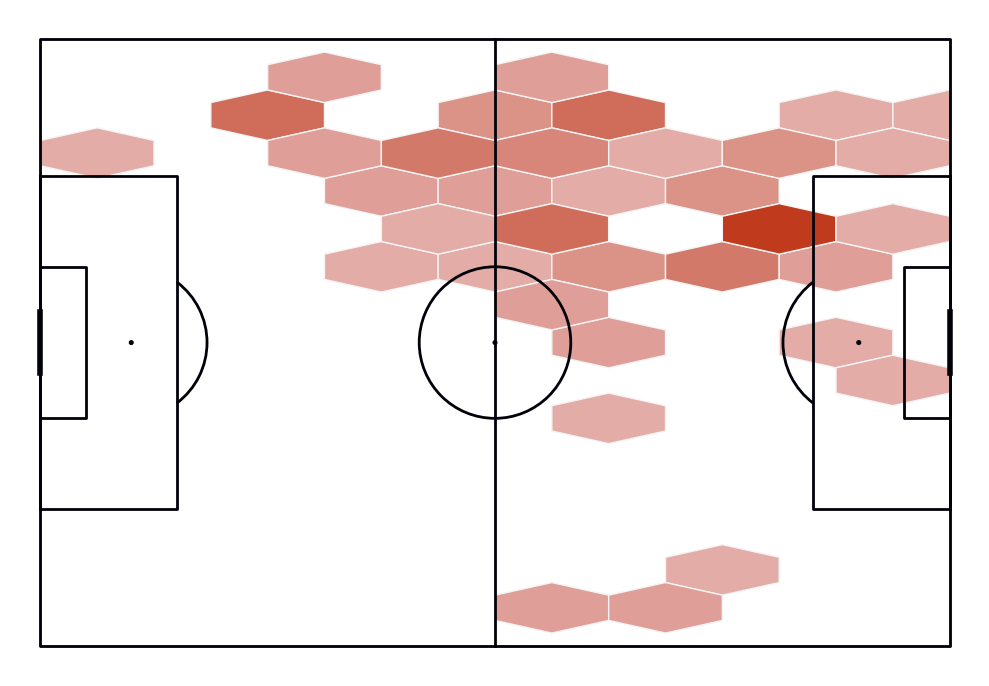
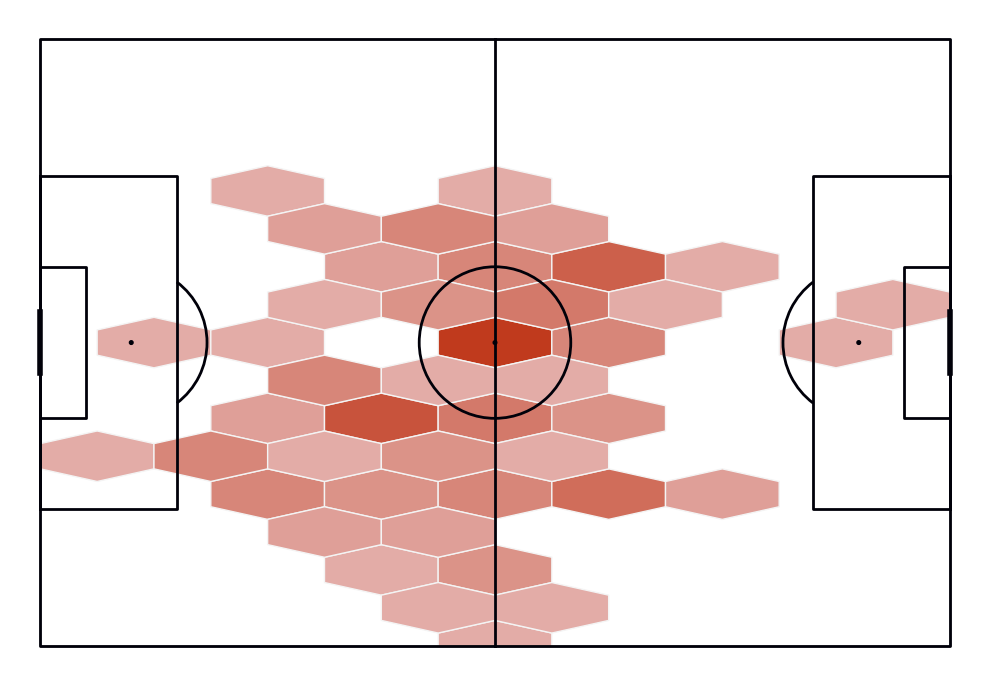
almost done

diff --git a/public/html/awayteam.html b/public/html/awayteam.html
@@ -12,43 +12,64 @@
   <div class="bg bg2"></div>
   <div class="bg bg3"></div>
     
-  
-      <div class=”container”>
-        <div class="print">
-          <img style="margin-left: 0px; max-width: 10%;" src="../images/SoccerTact_logo.png">
-          <button>Print</button>
-        </div>
-        <br><br>   
+  <div class=”container”>
+    <div class="print">
+      <img style="margin-left: 0px; max-width: 10%;" src="../images/SoccerTact_logo.png">
+      <button>Print</button>
+    </div>
+    <br><br>   
+            
+            
+        <div>
+          <div style="display: flex; justify-content: space-between;" class="player_select">
             <div>
-              <div style="display: flex; justify-content: space-between;" class="player_select">
-                <div>
-                    <div class="logo_name">
-                      <h4 style="color: white; margin: 0%; margin-bottom: 5px;">Away Team</h4> 
-                      <img id="logoaway" style="height: 80px; width: 80px; border: 5px solid gold">
-                      </div> 
-                      <br>
-                  <select style="background-color:rgba(0, 0, 0, 0.5); width: 330px; text-align-last:center; height: 410px;"class="away_team_select" id="away_team_select">
-                    <option  style="background-color: gold; color: white; "id="away_players" selected disabled>Away Team</option>
-                  </select>
-                  </div>             
-                  <div class="analysis_buttons">
-                    <button style="width: 200px; height: 80px;" class="pass">Pass <b>Flow</b></button>
-                    <button style="width: 200px; height: 80px;" class="five">Shot <b>Map</b></button>
-                    <button style="width: 200px; height: 80px;" class="heat">Pass <b>Heatmap</b></button>
-                    <button style="width: 200px; height: 80px;" class="network">Passing <b>Network</b></button>
-                    <button style="width: 200px; height: 80px;" class="duel">Duel <b>HeatMap</b></button>
-                    <button style="width: 200px; height: 80px;" class="pressure">Pressure <b>Heatmap</b></button>
-                  </div> 
-      
+              <div class="logo_name">
+              <h4 style="color: white; margin: 0%; margin-bottom: 5px;">Away Team</h4>
+            <img  id="logoaway" style="height: 80px; width: 80px; border: 5px solid gold;"> 
+            <br>
+            </div>
+            <select style="background-color:rgba(0, 0, 0, 0.5); width: 330px; text-align-last:center; height: 405px;"class="away_team_select" id="away_team_select">
+              <option style="background-color: gold; color: white;"id="away_players" selected disabled>Away Team</option>
               
-              </div>
-           
-    
-      </div>
+            </select>
+            
+            </div>
+            
+              <div style="margin-top:5% "><img id="myImg" width="600px"   ></div>
+              <div class="analysis_buttons">
+                <button style="width: 261px; height: 70px; margin-top: 25%;" class="pass" onclick="pass_flow()">Pass <b>Flow</b></button>
+                <button style="width: 261px; height: 70px;" class="five" onclick="Shot_map()">Shot <b>Map</b></button>
+                <button style="width: 261px; height: 70px;" class="heat" onclick="pass_heat()">Pass <b>Heatmap</b></button>
+                <button style="width: 261px; height: 70px;" class="network" onclick="pass_net()">Passing <b>Network</b></button>
+                <button style="width: 261px; height: 70px;" class="duel" onclick="duel()">Duel <b>HeatMap</b></button>
+                <button style="width: 261px; height: 70px;" class="pressure" onclick="pressure()">Pressure <b>Heatmap</b></button>
+              </div> 
+          
+          </div>
+  </div>
 
      
 
      <script>
+       var img= document.getElementById("myImg");
+       function pass_flow(){
+        img.src="../analysis/t2pass.png";
+       }
+       function Shot_map(){
+        img.src="../analysis/t2_shot.png";
+       }
+       function pass_heat(){
+        img.src="../analysis/t2_pass.png";
+       }
+       function pass_net(){
+        img.src="../analysis/t2_PN.png";
+       }
+       function duel(){
+        img.src="../analysis/t2_duel.png";
+       }
+       function pressure(){
+        img.src="../analysis/t2_pressure.png";
+       }
 
       async function awayply(){
     
@@ -60,8 +81,8 @@
        }
        setTimeout(awayply, 0);
 
-        var img= document.getElementById("myImg");
-        img.src="../analysis/heatmap.png";
+        
+        img.src="../analysis/home.png";
 
 img.onload = function(e){
     

diff --git a/public/html/hometeam.html b/public/html/hometeam.html
@@ -25,7 +25,7 @@
               <div style="display: flex; justify-content: space-between;" class="player_select">
                 <div>
                   <div class="logo_name">
-                  <h4 style="color: white; margin: 0%; margin-bottom: 5px;">Home Team</h4>
+                  <h4 style="color: white; margin: 0%; margin-bottom: 5px;" id="hname"></h4>
                 <img  id="logohome" style="height: 80px; width: 80px; border: 5px solid red;"> 
                 <br>
                 </div>
@@ -38,12 +38,12 @@
                 
                   <div style="margin-top:5% "><img id="myImg" width="600px"   ></div>
                   <div class="analysis_buttons">
-                    <button style="width: 261px; height: 70px; margin-top: 25%;" class="pass">Pass <b>Flow</b></button>
-                    <button style="width: 261px; height: 70px;" class="five">Shot <b>Map</b></button>
-                    <button style="width: 261px; height: 70px;" class="heat">Pass <b>Heatmap</b></button>
-                    <button style="width: 261px; height: 70px;" class="network">Passing <b>Network</b></button>
-                    <button style="width: 261px; height: 70px;" class="duel">Duel <b>HeatMap</b></button>
-                    <button style="width: 261px; height: 70px;" class="pressure">Pressure <b>Heatmap</b></button>
+                    <button style="width: 261px; height: 70px; margin-top: 25%;" class="pass" onclick="pass_flow()">Pass <b>Flow</b></button>
+                    <button style="width: 261px; height: 70px;" class="five" onclick="Shot_map()">Shot <b>Map</b></button>
+                    <button style="width: 261px; height: 70px;" class="heat" onclick="pass_heat()">Pass <b>Heatmap</b></button>
+                    <button style="width: 261px; height: 70px;" class="network" onclick="pass_net()">Passing <b>Network</b></button>
+                    <button style="width: 261px; height: 70px;" class="duel" onclick="duel()">Duel <b>HeatMap</b></button>
+                    <button style="width: 261px; height: 70px;" class="pressure" onclick="pressure()">Pressure <b>Heatmap</b></button>
                   </div> 
               
               </div>
@@ -52,6 +52,41 @@
      
 
      <script>
+        setTimeout(team1, 0);
+      
+      async function team1(){
+        const n= await fetch('../analysis/homename.json');
+      const h_name = await n.json();
+      var hname= h_name["hname"];
+      
+      document.getElementById("hname").innerText=hname;
+      // document.getElementById("aname").innerText=aname;
+      const response = await fetch('/script/s_d.json');
+      const names = await response.json();
+   
+       
+     
+      }
+        var img= document.getElementById("myImg");
+       function pass_flow(){
+        img.src="../analysis/t1pass.png";
+       }
+       function Shot_map(){
+        img.src="../analysis/t1_shot.png";
+       }
+       function pass_heat(){
+        img.src="../analysis/t1_pass.png";
+       }
+       function pass_net(){
+        img.src="../analysis/t1pn.png";
+       }
+       function duel(){
+        img.src="../analysis/t1_duel.png";
+       }
+       function pressure(){
+        img.src="../analysis/t1_pressure.png";
+       }
+
         async function homeply(){
     
     const response = await fetch('/analysis/homeimg.json');
@@ -72,7 +107,7 @@
        }
        setTimeout(awayply, 0);
 
-        var img= document.getElementById("myImg");
+        // var img= document.getElementById("myImg");
         img.src="../analysis/home.png";
 
 img.onload = function(e){

diff --git a/public/html/player.html b/public/html/player.html
@@ -40,23 +40,19 @@
 
     </head>
 <body>
-  <div class="player_images" style="display: inline; display: flex;">
+  <div class="player_images" style="display: inline; display: flex; margin-top: 5%;">
    
-    <div  margin-left: 2%;"><img id="myImg" style="height: 65%; width:60%;"  ></div>
+    <div  margin-left: 2%;><img id="myImg" style="height: 70%; width:80%;"  ></div>
+    <div  margin-left: 2%;><img id="myImg2" style="height: 70%; width:80%;"  ></div>
     <div class="player_buttons">
-      <button class="passes"><b>Passes</b></button>
-      <button class="shots"><b>Shots</b></button>
-      <button class="possesion"><b>Possesion</b></button>
+      <button class="passes" onclick="pass()"><b>Passes</b></button>
+      <br>
+      <button class="shots" onclick="shot()"><b>Shots</b></button>
+      <br>
+      <button class="possesion" onclick="poss()"><b>Possesion</b></button>
     </div>
   </div>
-       
-       
-    
-
-
-     
       <scrip src="main.js">
- 
     </script>
     <script>
       async function playbox(){
@@ -101,12 +97,18 @@
 <script>
    var img= document.getElementById("myImg");
    var img2= document.getElementById("myImg2");
-   var img3= document.getElementById("myImg3");
-   var img4= document.getElementById("myImg4");
+  function pass(){
+    img2.src="../ply_analysis/pass.png";
+  }
+  function shot(){
+    img2.src="../ply_analysis/shot.png";
+  }
+  function poss(){
+  img2.src="../ply_analysis/poss.png";
+  }
         img.src="../ply_analysis/KPI.png";
         img2.src="../ply_analysis/pass.png";
-        img3.src="../ply_analysis/poss.png"
-        img4.src="../ply_analysis/shot.png"
+ 
 
 img.onload = function(e){
     

diff --git a/public/css/style.css b/public/css/style.css
@@ -735,12 +735,6 @@ option{ border: 1px solid white;}
   height: 20%;
 }
 
-<<<<<<< HEAD
-.age{
-  background-image: -webkit-gradient(linear, left top, left bottom, from(#ffef16), to(rgba(154, 40, 87, 0.24))), url("https://e0.365dm.com/20/05/2048x1152/skysports-liverpool-salah_5000679.jpg");
-  background-image: linear-gradient(to bottom, #f4f819, rgba(154, 40, 87, 0.24)), url("https://e0.365dm.com/20/05/2048x1152/skysports-liverpool-salah_5000679.jpg");
-}
-=======
 .name{
   background-image: -webkit-gradient(linear, left top, left bottom, from(#fc6704), to(rgba(255, 94, 0, 0.966))), url("https://e0.365dm.com/20/05/2048x1152/skysports-liverpool-salah_5000679.jpg");
   background-image: linear-gradient(to bottom, #f3a682, rgba(247, 126, 45, 0.952)), url("https://e0.365dm.com/20/05/2048x1152/skysports-liverpool-salah_5000679.jpg");
@@ -1008,4 +1002,3 @@ option{ border: 1px solid white;}
     flex-direction: row;
     justify-content: space-between;
 }
->>>>>>> b52bd0133d90cce09d5479a6ae87f5e0687d53b7

diff --git a/public/html/teamloader.html b/public/html/teamloader.html
@@ -57,7 +57,7 @@ text-align: center;
 <script>
     setTimeout(() => {
         window.location.href = "/team"; 
-    }, 6000);
+    }, 8000);
 </script>
 </body>
 </html>
